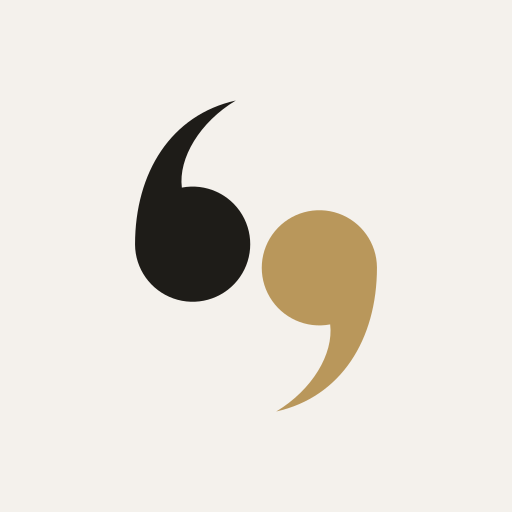
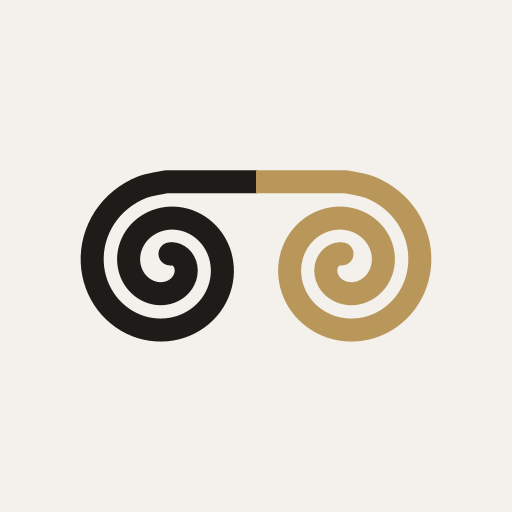
New mark: Ionic
The two volutes of an Ionic capital drawn as one line: the ink voice
curls out of its scroll to the join, the gold voice answers into its own.
It replaces the two quotation marks, which could have belonged to any
chat app; Dialogia is a Greek word and now looks like one.

The seam between the voices is a straight cut and the spirals end in
round eyes. The welcome page draws the line in, ink then gold. While a
reply waits for its first word, the mark stands where the text will
land, its ink muted and its gold drawing, holding and letting go; the
sidebar mark stays still. Favicon (scheme-aware, heavier at 16px), ico
and app icons are regenerated from assets/brand/.

Changed region(s): [[0.1562, 0.1875, 0.8438, 0.8125]]

diff --git a/src/components/ui/LogoMark.tsx b/src/components/ui/LogoMark.tsx
@@ -1,22 +1,48 @@
-// "Two voices": an opening and a closing quotation mark facing each other.
-// The opening mark takes the current text colour and the closing mark the
-// accent, so the mark follows the theme. Source artwork: assets/brand/.
-const QUOTE = 'M8 0 A8 8 0 1 0 1.5 7.9 C2 12 -1 17 -6 20 C3 18 8 10 8 0Z';
+// "Ionic": the two volutes of an Ionic capital drawn as one line. The ink
+// voice curls out of its eye to the join and the gold voice answers into its
+// own; ink is the text colour and gold the accent, so the mark follows the
+// theme. Butt ends keep the seam a straight cut; the eyes round the spirals'
+// inner ends. Source artwork: assets/brand/.
+const INK =
+  'M18.56 32.27C18.67 32.27 19 32.24 19.22 32.29C19.44 32.34 19.69 32.43 19.9 32.57C20.12 32.71 20.34 32.9 20.51 33.12C20.68 33.34 20.84 33.62 20.94 33.91C21.03 34.2 21.1 34.54 21.1 34.87C21.09 35.21 21.04 35.58 20.92 35.92C20.8 36.26 20.62 36.62 20.38 36.93C20.15 37.24 19.84 37.54 19.49 37.77C19.15 38 18.73 38.21 18.31 38.32C17.88 38.44 17.39 38.51 16.92 38.49C16.45 38.47 15.94 38.37 15.48 38.19C15.01 38.02 14.53 37.75 14.12 37.42C13.71 37.09 13.32 36.67 13.01 36.21C12.71 35.74 12.45 35.19 12.3 34.63C12.15 34.07 12.07 33.44 12.1 32.83C12.13 32.22 12.26 31.57 12.49 30.97C12.71 30.37 13.05 29.77 13.46 29.25C13.88 28.72 14.41 28.23 14.99 27.85C15.57 27.46 16.24 27.14 16.94 26.95C17.64 26.75 18.41 26.65 19.16 26.68C19.91 26.71 20.71 26.86 21.44 27.12C22.17 27.39 22.91 27.78 23.55 28.28C24.18 28.77 24.79 29.4 25.26 30.08C25.73 30.77 26.13 31.58 26.38 32.4C26.62 33.23 26.76 34.15 26.75 35.04C26.73 35.92 26.58 36.87 26.28 37.74C25.99 38.61 25.54 39.49 24.98 40.25C24.42 41.01 23.7 41.73 22.91 42.3C22.12 42.87 21.19 43.36 20.24 43.67C19.29 43.98 18.23 44.17 17.2 44.17C16.17 44.18 15.07 44.03 14.06 43.72C13.05 43.4 12.03 42.92 11.14 42.29C10.25 41.67 9.4 40.87 8.72 39.99C8.05 39.11 7.46 38.06 7.08 36.99C6.69 35.91 6.45 34.71 6.41 33.54C6.36 32.38 6.5 31.13 6.82 29.98C7.14 28.82 7.66 27.65 8.33 26.62C9 25.6 9.87 24.61 10.85 23.82C11.82 23.03 12.97 22.34 14.16 21.87C15.36 21.4 17.36 21.15 18 21H32.2';
+const GOLD =
+  'M32 21H46C46.64 21.15 48.64 21.4 49.84 21.87C51.03 22.34 52.18 23.03 53.15 23.82C54.13 24.61 55 25.6 55.67 26.62C56.34 27.65 56.86 28.82 57.18 29.98C57.5 31.13 57.64 32.38 57.59 33.54C57.55 34.71 57.31 35.91 56.92 36.99C56.54 38.06 55.95 39.11 55.28 39.99C54.6 40.87 53.75 41.67 52.86 42.29C51.97 42.92 50.95 43.4 49.94 43.72C48.93 44.03 47.83 44.18 46.8 44.17C45.77 44.17 44.71 43.98 43.76 43.67C42.81 43.36 41.88 42.87 41.09 42.3C40.3 41.73 39.58 41.01 39.02 40.25C38.46 39.49 38.01 38.61 37.72 37.74C37.42 36.87 37.27 35.92 37.25 35.04C37.24 34.15 37.38 33.23 37.62 32.4C37.87 31.58 38.27 30.77 38.74 30.08C39.21 29.4 39.82 28.77 40.45 28.28C41.09 27.78 41.83 27.39 42.56 27.12C43.29 26.86 44.09 26.71 44.84 26.68C45.59 26.65 46.36 26.75 47.06 26.95C47.76 27.14 48.43 27.46 49.01 27.85C49.59 28.23 50.12 28.72 50.54 29.25C50.95 29.77 51.29 30.37 51.51 30.97C51.74 31.57 51.87 32.22 51.9 32.83C51.93 33.44 51.85 34.07 51.7 34.63C51.55 35.19 51.29 35.74 50.99 36.21C50.68 36.67 50.29 37.09 49.88 37.42C49.47 37.75 48.99 38.02 48.52 38.19C48.06 38.37 47.55 38.47 47.08 38.49C46.61 38.51 46.12 38.44 45.69 38.32C45.27 38.21 44.85 38 44.51 37.77C44.16 37.54 43.85 37.24 43.62 36.93C43.38 36.62 43.2 36.26 43.08 35.92C42.96 35.58 42.91 35.21 42.9 34.87C42.9 34.54 42.97 34.2 43.06 33.91C43.16 33.62 43.32 33.34 43.49 33.12C43.66 32.9 43.88 32.71 44.1 32.57C44.31 32.43 44.56 32.34 44.78 32.29C45 32.24 45.33 32.27 45.44 32.27';
 
-export function LogoMark({ className }: { className?: string }) {
+// Cropped to the line, about 2:1; CSS sizes the mark by its height.
+const VIEWBOX = '4.5 19 55 27.2';
+
+/** `live` sets the gold voice answering on a loop (styles/logo.css). */
+export function LogoMark({ className, live = false }: { className?: string; live?: boolean }) {
   return (
-    <svg viewBox="0 0 64 64" className={className} aria-hidden="true" focusable="false">
-      {/* Outer groups carry no transform, so CSS can animate each voice. */}
-      <g className="logo-mark__voice logo-mark__voice--open">
-        <g transform="translate(21 30) rotate(180) scale(1.25)">
-          <path d={QUOTE} fill="currentColor" />
-        </g>
+    <svg
+      viewBox={VIEWBOX}
+      className={`logo-mark${live ? ' logo-mark--live' : ''}${className ? ` ${className}` : ''}`}
+      aria-hidden="true"
+      focusable="false"
+    >
+      <g fill="none" strokeWidth="3.6" strokeLinejoin="round">
+        {/* pathLength lets CSS draw each voice with a 0..1 dash. */}
+        <path
+          className="logo-mark__voice logo-mark__voice--open"
+          d={INK}
+          stroke="currentColor"
+          pathLength={1}
+        />
+        <path
+          className="logo-mark__voice logo-mark__voice--close"
+          d={GOLD}
+          stroke="var(--color-accent)"
+          pathLength={1}
+        />
       </g>
-      <g className="logo-mark__voice logo-mark__voice--close">
-        <g transform="translate(43 34) scale(1.25)">
-          <path d={QUOTE} fill="var(--color-accent)" />
-        </g>
-      </g>
+      <circle className="logo-mark__eye" cx="18.56" cy="32.27" r="1.8" fill="currentColor" />
+      <circle
+        className="logo-mark__eye logo-mark__eye--close"
+        cx="45.44"
+        cy="32.27"
+        r="1.8"
+        fill="var(--color-accent)"
+      />
     </svg>
   );
 }

diff --git a/src/components/WelcomeHero.module.css b/src/components/WelcomeHero.module.css
@@ -40,8 +40,8 @@
 }
 
 .mark {
-  width: 3.25rem;
-  height: 3.25rem;
+  height: 1.75rem;
+  aspect-ratio: 55 / 27.2;
   margin-bottom: var(--space-6);
   color: var(--color-fg);
 }
@@ -133,14 +133,16 @@
 }
 
 /* ===== Opening motion ===== */
+/* The ink voice draws out of its scroll to the join, then gold answers. */
 .mark :global(.logo-mark__voice) {
-  animation: voice-meet 1100ms var(--ease-out-expo) both;
-}
-.mark :global(.logo-mark__voice--open) {
-  --voice-from: -7px;
+  stroke-dasharray: 1;
+  animation: voice-draw 900ms var(--ease-out-quint) both;
 }
 .mark :global(.logo-mark__voice--close) {
-  --voice-from: 7px;
+  animation-delay: 650ms;
+}
+.mark :global(.logo-mark__eye--close) {
+  animation: settle-eye 240ms ease-out 1300ms both;
 }
 .kicker,
 .headline,
@@ -161,14 +163,21 @@
   animation-delay: 420ms;
 }
 
-@keyframes voice-meet {
+@keyframes voice-draw {
+  from {
+    stroke-dashoffset: 1;
+  }
+  to {
+    stroke-dashoffset: 0;
+  }
+}
+
+@keyframes settle-eye {
   from {
     opacity: 0;
-    transform: translateX(var(--voice-from));
   }
   to {
     opacity: 1;
-    transform: translateX(0);
   }
 }
 
@@ -185,6 +194,7 @@
 
 @media (prefers-reduced-motion: reduce) {
   .mark :global(.logo-mark__voice),
+  .mark :global(.logo-mark__eye--close),
   .kicker,
   .headline,
   .composer,
@@ -225,8 +235,8 @@
 }
 
 .heroMobileMark {
-  width: 2.5rem;
-  height: 2.5rem;
+  height: 1.35rem;
+  aspect-ratio: 55 / 27.2;
   margin: 0 auto var(--space-4);
 }
 

diff --git a/styles/logo.css b/styles/logo.css
@@ -1,4 +1,4 @@
-/* Brand lockup in the sidebar header: the Two voices mark beside a serif
+/* Brand lockup in the sidebar header: the Ionic mark beside a serif
    wordmark set in the assistant's book face. */
 .brand {
   display: flex;
@@ -7,8 +7,8 @@
   color: var(--color-fg);
 }
 .brand__mark {
-  width: 1.75rem;
-  height: 1.75rem;
+  height: 0.95rem;
+  aspect-ratio: 55 / 27.2;
   flex-shrink: 0;
 }
 .brand__name {
@@ -17,4 +17,49 @@
   font-weight: 450;
   letter-spacing: -0.012em;
   line-height: 1;
+}
+
+/* Live (a reply waiting for its first word): the ink voice rests while the
+   gold one answers, draws its line into the scroll, holds, and lets it go
+   from the join. The eye appears when the line reaches it. */
+.logo-mark--live .logo-mark__voice--close {
+  stroke-dasharray: 1;
+  animation: logo-answer 3.2s var(--ease-standard) infinite;
+}
+.logo-mark--live .logo-mark__eye--close {
+  animation: logo-answer-eye 3.2s linear infinite;
+}
+
+@keyframes logo-answer {
+  0% {
+    stroke-dashoffset: 1;
+  }
+  50%,
+  78% {
+    stroke-dashoffset: 0;
+  }
+  100% {
+    stroke-dashoffset: -1;
+  }
+}
+
+@keyframes logo-answer-eye {
+  0%,
+  46% {
+    opacity: 0;
+  }
+  50%,
+  98% {
+    opacity: 1;
+  }
+  100% {
+    opacity: 0;
+  }
+}
+
+@media (prefers-reduced-motion: reduce) {
+  .logo-mark--live .logo-mark__voice--close,
+  .logo-mark--live .logo-mark__eye--close {
+    animation: none;
+  }
 }

diff --git a/src/components/message/AssistantMessage.tsx b/src/components/message/AssistantMessage.tsx
@@ -18,6 +18,7 @@ import { useChatStore } from '@/lib/store';
 import { messageHasModuleContent } from '@/lib/modules';
 import type { Chat, Message, ModelDescriptor, PersistedAttachment } from '@/lib/types';
 import { isRecord } from '@/lib/utils/guards';
+import { LogoMark } from '@/components/ui/LogoMark';
 import styles from './MessageCard.module.css';
 
 export type AssistantMessageProps = {
@@ -154,12 +155,12 @@ export function AssistantMessage({
       />
     );
   } else if (waitingForFirstToken && message.id === lastMessageId && !displayContent) {
-    // The pen, poised: a gold caret where the first word will land, set in the
-    // reply's own paragraph so the text arrives exactly where it waited.
+    // The mark, answering: set where the first word will land, in the reply's
+    // own paragraph, so the text arrives exactly where it waited.
     messageBody = (
       <div className="markdown" role="status" aria-label="Writing a reply">
         <p>
-          <span className={styles.pen} aria-hidden="true" />
+          <LogoMark className={styles.pen} live />
         </p>
       </div>
     );

diff --git a/src/components/message/MessageCard.module.css b/src/components/message/MessageCard.module.css
@@ -203,34 +203,14 @@
   background: var(--chrome-rule);
 }
 
-/* Waiting for the first word: one gold caret, since waiting is live, where
-   the reply will begin. It breathes rather than blinks: a pen resting on the
-   page, not a text field asking for input. */
+/* Waiting for the first word: the mark, small, where the reply will begin.
+   The ink voice is quiet; the gold one answers, since waiting is live. */
 .pen {
   display: inline-block;
-  width: 2px;
-  height: 1.1em;
-  vertical-align: -0.2em;
-  border-radius: 1px;
-  background: var(--color-accent);
-  animation: pen-breathe 1.6s var(--ease-standard) infinite;
-}
-
-@keyframes pen-breathe {
-  0%,
-  100% {
-    opacity: 0.35;
-  }
-  50% {
-    opacity: 1;
-  }
-}
-
-@media (prefers-reduced-motion: reduce) {
-  .pen {
-    animation: none;
-    opacity: 0.7;
-  }
+  height: 0.62em;
+  aspect-ratio: 55 / 27.2;
+  vertical-align: 0.05em;
+  color: var(--color-fg-muted);
 }
 
 /* Older replies keep their footer out of the way until hovered. */
